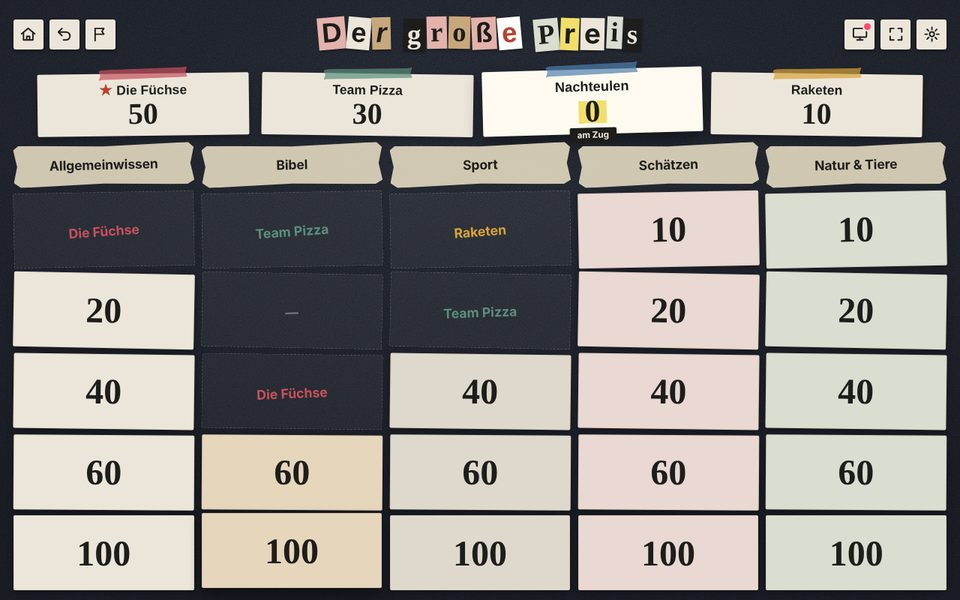
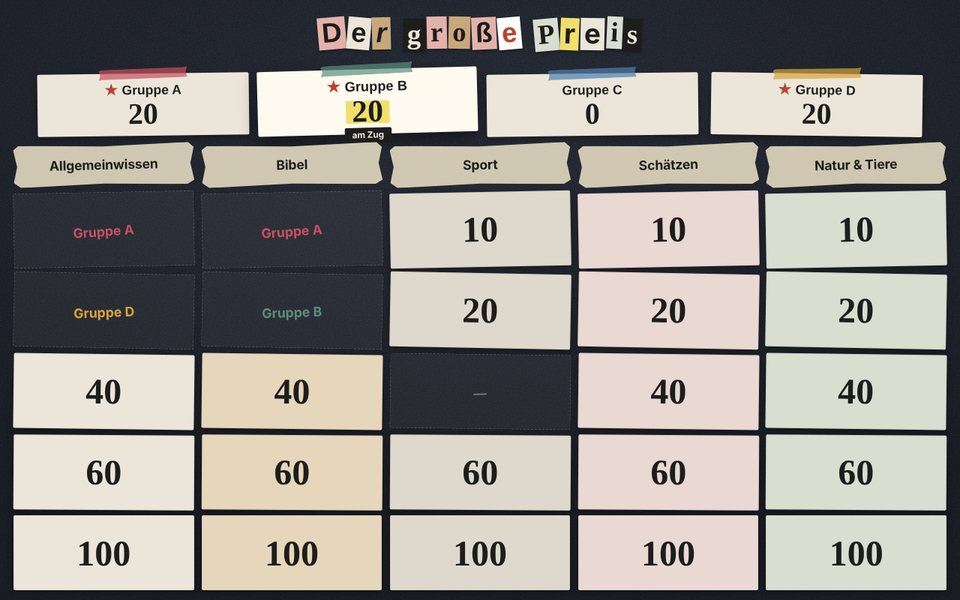
1.19.0: Startseite mit Erklärung und neuen Screenshots, Beamer-Spiele nur am Laptop/PC
- Kurze Erklärung unter dem Titel mit Link zur Vision
- Neue Screenshots: Der große Preis, Eigenes Spiel, Countdown, Spielesammlung
- Auf Handy und Tablet zeigen Der große Preis, Eigenes Spiel und Countdown
  einen Hinweis statt zu starten (iPad wird über den Touchscreen erkannt)
- Tests für Startseite und Handy/Tablet ergänzt

Claude-Session: https://claude.ai/code/session_01GTEJCin37oCirmEE6Capjx

diff --git a/js/app.js b/js/app.js
@@ -107,6 +107,23 @@ function sfx(n){
 /* ---------- Toast & Dialog ---------- */
 let toastT;
 function toast(m){const t=$('#toast');t.textContent=m;t.classList.add('show');clearTimeout(toastT);toastT=setTimeout(()=>t.classList.remove('show'),2600);}
+/* Hinweis nur mit OK-Knopf */
+function notice(msg){ask(msg,'OK',()=>{});$('#dNo').style.display='none';}
+
+/* Beamer-Spiele gibt es vorerst nur am Laptop/PC. Handy und Tablet bekommen sie mit der App.
+   iPads melden sich in Safari als Mac, deshalb zählt zusätzlich der Touchscreen. */
+function isHandyOderTablet(){
+  try{
+    const ua=navigator.userAgent||'';
+    if(navigator.userAgentData&&navigator.userAgentData.mobile)return true;
+    if(/iPhone|iPad|iPod|Android|Mobile|Silk|Kindle/i.test(ua))return true;
+    if(/Macintosh/.test(ua)&&navigator.maxTouchPoints>1)return true;
+    return matchMedia('(pointer:coarse)').matches&&!matchMedia('(any-pointer:fine)').matches;
+  }catch(e){return false;}
+}
+function nurAmPC(start){
+  return ()=>{if(isHandyOderTablet()){notice('Diese Funktion ist aktuell nur auf einem Laptop oder PC verfügbar.');return;}start();};
+}
 function ask(msg,yesLabel,onYes,opt){
   $('#dMsg').textContent=msg;$('#dYes').textContent=yesLabel||'OK';$('#dialog').classList.add('show');
   const inp=$('#dInput'),withInput=!!(opt&&opt.input);
@@ -115,7 +132,7 @@ function ask(msg,yesLabel,onYes,opt){
   const yes=()=>{const v=inp.value.trim();if(withInput&&!v){inp.focus();return;}$('#dialog').classList.remove('show');onYes(v);};
   $('#dYes').onclick=yes;
   inp.onkeydown=e=>{if(e.key==='Enter')yes();};
-  $('#dNo').onclick=()=>$('#dialog').classList.remove('show');
+  $('#dNo').style.display='';$('#dNo').onclick=()=>$('#dialog').classList.remove('show');
 }
 
 /* ---------- Spielbrett ---------- */
@@ -910,8 +927,9 @@ $('#btnEditBoard').onclick=()=>openSettings();
 $('#btnBackup').onclick=()=>backupNow();
 $('#btnRestore').onclick=()=>$('#tplFile').click();
 $('#gcColl').onclick=()=>{if(gamesState==='fehler')loadGames();showScreen('coll');};
-$('#gcPreis').onclick=()=>showScreen('gmenu');
+$('#gcPreis').onclick=nurAmPC(()=>showScreen('gmenu'));
 $('#btnGmBack').onclick=()=>showScreen('home');
+$('#lnkVision').onclick=e=>{e.preventDefault();try{$('#vision').scrollIntoView({behavior:matchMedia('(prefers-reduced-motion:reduce)').matches?'auto':'smooth'});}catch(err){$('#vision').scrollIntoView();}};
 $('#btnGuide').onclick=()=>{try{$('#info').scrollIntoView({behavior:matchMedia('(prefers-reduced-motion:reduce)').matches?'auto':'smooth'});}catch(e){$('#info').scrollIntoView();}};
 function finishGame(){
   if(!S.teams.length){toast('Es gibt noch keine Gruppen.');return;}
@@ -1193,7 +1211,7 @@ $('#tmStart').onclick=tmStart;
 $('#tmPause').onclick=tmPauseToggle;
 $('#tmReset').onclick=tmReset;
 $('#tmViewer').onclick=openViewer;
-$('#gcTimer').onclick=()=>showScreen('timer');
+$('#gcTimer').onclick=nurAmPC(()=>showScreen('timer'));
 $('#btnTimerBack').onclick=()=>{if(TM.phase==='running'||TM.phase==='paused'){ask('Der Countdown läuft noch. Trotzdem zurück? Der Countdown wird dabei beendet.','Zurück',()=>{tmReset();showScreen('home');});}else{tmReset();showScreen('home');}};
 if(!VIEW)tmRender();
 
@@ -1328,7 +1346,7 @@ function renderOwnList(){
   tip.textContent='Tipp: Exportiere ein fertiges Spiel als Datei. So hast du eine Sicherung und kannst es anderen schicken.';
   list.appendChild(tip);
 }
-$('#gcOwn').onclick=()=>showScreen('own');
+$('#gcOwn').onclick=nurAmPC(()=>showScreen('own'));
 $('#btnOwnBack').onclick=()=>showScreen('home');
 
 /* ---------- Einrichten ---------- */

diff --git a/index.html b/index.html
@@ -63,6 +63,7 @@
 <!-- ================= STARTMENÜ ================= -->
 <div class="screen" id="home">
   <h1 class="brand" id="homeBrand" aria-label="Manna"><img class="brand-mark" src="img/manna-mark.svg" alt=""><span class="brand-word" aria-hidden="true">anna</span></h1>
+  <p class="home-intro" id="homeIntro">Manna macht einen Spieleabend in der Jugendarbeit leicht: eine Quiz-Gameshow und eigene Spielrunden für den Beamer, ein großer Countdown und eine Sammlung erprobter Gruppenspiele. Ohne Konto, ohne Vorbereitung, auch offline. <a href="#visionTitle" id="lnkVision">Warum es Manna gibt</a></p>
   <div class="gamegrid">
     <button class="gcard" id="gcPreis">
       <span class="wbar">Der große Preis</span>
@@ -84,11 +85,11 @@
   <button class="guide-link" id="btnGuide">Mehr erfahren ↓</button>
 
   <div class="info" id="info">
-    <div class="collage" role="group" aria-label="Screenshots aus dem Spiel">
-      <figure class="shot"><img src="img/shot-brett.jpg" alt="Spielbrett mit fünf Kategorien, Punktefeldern und dem Punktestand der Gruppen" width="960" height="600" loading="lazy"></figure>
-      <figure class="shot"><img src="img/shot-frage.jpg" alt="Aufgelöste Multiple-Choice-Frage, die richtige Antwort ist grün markiert" width="960" height="600" loading="lazy"></figure>
-      <figure class="shot"><img src="img/shot-action.jpg" alt="ACTION-Animation aus ausgeschnittenen Buchstaben" width="960" height="600" loading="lazy"></figure>
-      <figure class="shot"><img src="img/shot-sieger.jpg" alt="Siegerehrung mit Treppchen aus Pappe und Konfetti" width="960" height="600" loading="lazy"></figure>
+    <div class="collage" role="group" aria-label="Screenshots aus Manna">
+      <figure class="shot"><img src="img/shot-brett.jpg" alt="Der große Preis: Spielbrett mit fünf Kategorien und dem Punktestand der Gruppen" width="960" height="600" loading="lazy"></figure>
+      <figure class="shot"><img src="img/shot-eigenes.jpg" alt="Eigenes Spiel: Titel der nächsten Runde aus ausgeschnittenen Buchstaben, darüber der Punktestand" width="960" height="600" loading="lazy"></figure>
+      <figure class="shot"><img src="img/shot-countdown.jpg" alt="Countdown: große Restzeit auf einem Papierzettel" width="960" height="600" loading="lazy"></figure>
+      <figure class="shot"><img src="img/shot-sammlung.jpg" alt="Spielesammlung: Nachts in Palermo mit Gruppengröße, Alter, Material und Rollen" width="960" height="600" loading="lazy"></figure>
     </div>
 
     <section class="hblock" aria-labelledby="needTitle">
@@ -122,7 +123,7 @@
       </div>
     </section>
 
-    <section class="hblock" aria-labelledby="visionTitle">
+    <section class="hblock" id="vision" aria-labelledby="visionTitle">
       <h2 id="visionTitle">Unsere Vision</h2>
       <div class="note vision">
         <p>Ehrenamtliche in der Jugendarbeit haben wenig Zeit und selten viel Technik. Deshalb soll ein guter Spieleabend so einfach werden wie möglich: das Spiel am Handy bedienen, schnell mit dem Beamer verbinden und auch spontan auf gutes Material zurückgreifen können.</p>

diff --git a/css/app.css b/css/app.css
@@ -941,7 +941,10 @@ body.viewer #ownPlay{padding-bottom:3vh}
 .brand{display:inline-flex;align-items:flex-end;gap:.04em;margin:3vh 0 1vh;font-size:clamp(3rem,10vh,6rem);line-height:1;color:#f1ede4}
 .brand-mark{width:1.18em;height:1.18em;display:block;margin-bottom:-.06em}
 .brand-word{font-family:var(--strong);font-weight:700;letter-spacing:-.02em;padding-bottom:.02em;text-shadow:0 3px 8px #0005}
-#home .brand{margin-bottom:7vh}
+#home .brand{margin-bottom:3vh}
+.home-intro{max-width:62ch;margin:0 auto 6vh;text-align:center;font-family:var(--serif);font-size:1.1rem;line-height:1.6;color:#d8d2c4}
+.home-intro a{color:#f1ede4;font-style:italic;text-decoration:underline;text-underline-offset:4px;white-space:nowrap}
+.home-intro a:hover{color:#fff}
 #vSplash .vs-brand{display:none;font-size:clamp(4rem,20vh,12rem);margin:0}
 #vSplash.brand-mode .vs-brand{display:inline-flex}
 #vSplash.brand-mode .marquee{display:none}

diff --git a/js/data.js b/js/data.js
@@ -3,8 +3,13 @@
    Neue Vorlagen oder Changelog-Einträge nur hier eintragen. */
 
 /* ---------- Version & Changelog ---------- */
-const APP_VERSION='1.18.0';
+const APP_VERSION='1.19.0';
 const CHANGELOG=[
+  {v:'1.19.0',d:'24.11.2026',items:[
+    'Neu auf der Startseite: eine kurze Erklärung, was Manna kann, mit Link zur Vision',
+    'Neue Screenshots auf der Startseite: Der große Preis, Eigenes Spiel, Countdown und Spielesammlung',
+    'Der große Preis, Eigenes Spiel und Countdown gibt es vorerst nur am Laptop oder PC. Auf Handy und Tablet kommt ein Hinweis, die Spielesammlung bleibt dort nutzbar'
+  ]},
   {v:'1.18.0',d:'24.11.2026',items:[
     'Spielesammlung verschlankt: „Spiel erstellen“ und „Spiel einsenden“ gibt es nicht mehr',
     'Neue Spiele erscheinen in der Spielesammlung jetzt ohne App-Update',

diff --git a/sw.js b/sw.js
@@ -2,7 +2,7 @@
    Macht die App offline-fähig und lädt Updates automatisch.
    WICHTIG: Bei jedem Update VERSION hochzählen (gleiche Nummer wie APP_VERSION in js/data.js).
    Die Spiele (spiele/alle.json) brauchen kein Update: Sie werden immer zuerst frisch geladen. */
-const VERSION = '1.18.0';
+const VERSION = '1.19.0';
 const CACHE = 'grosser-preis-' + VERSION;
 const FONT_CACHE = 'grosser-preis-fonts';
 const GAMES_CACHE = 'manna-spiele';
@@ -15,9 +15,9 @@ const FILES = [
   './js/data.js',
   './js/app.js',
   './img/shot-brett.jpg',
-  './img/shot-frage.jpg',
-  './img/shot-action.jpg',
-  './img/shot-sieger.jpg',
+  './img/shot-eigenes.jpg',
+  './img/shot-countdown.jpg',
+  './img/shot-sammlung.jpg',
   './img/manna-mark.svg',
   './manifest.webmanifest',
   './icon-192.png',

diff --git a/tests/run_tests.py b/tests/run_tests.py
@@ -62,7 +62,7 @@ def static_checks():
     check('Version in data.js und sw.js gleich', v1 == v2, f'{v1} / {v2}')
     md = open(os.path.join(ROOT, 'CHANGELOG.md'), encoding='utf-8').read()
     check('CHANGELOG.md enthält aktuelle Version', f'## {v1}' in md)
-    for f in ['css/app.css', 'js/spielformat.js', 'js/data.js', 'js/app.js', 'img/shot-brett.jpg', 'img/shot-frage.jpg', 'img/shot-action.jpg', 'img/shot-sieger.jpg']:
+    for f in ['css/app.css', 'js/spielformat.js', 'js/data.js', 'js/app.js', 'img/shot-brett.jpg', 'img/shot-eigenes.jpg', 'img/shot-countdown.jpg', 'img/shot-sammlung.jpg']:
         check(f'Service Worker cached {f}', f"'./{f}'" in sw)
         check(f'Datei vorhanden: {f}', os.path.exists(os.path.join(ROOT, f)))
 
@@ -125,6 +125,12 @@ def browser_checks(p):
     check('Screenshots laden', all(loaded), loaded)
     heads = m.locator('#home .hblock h2').all_inner_texts()
     check('Bereiche auf der Startseite', heads == ['Genau das, was du brauchst!', "So funktioniert's", 'Unsere Vision'], heads)
+    intro = m.inner_text('#homeIntro') if m.locator('#homeIntro').count() else ''
+    check('Kurze Erklärung unter dem Titel', m.locator('#homeBrand + #homeIntro + .gamegrid').count() == 1 and 'Gruppenspiele' in intro, intro)
+    m.click('#lnkVision'); m.wait_for_timeout(900)
+    check('Link springt zur Vision', m.evaluate("(()=>{const r=document.querySelector('#vision').getBoundingClientRect();return r.top<innerHeight&&r.bottom>0})()") and '#' not in m.url)
+    m.evaluate('scrollTo(0,0)')
+    check('Laptop/PC: Beamer-Spiele nicht gesperrt', not m.evaluate('isHandyOderTablet()'))
     m.click('#homeVer'); m.wait_for_timeout(200)
     check('Changelog öffnet', m.locator('#clDialog.show').count() == 1)
     check('Changelog ohne Datum', not re.search(r'\d{1,2}\.\d{1,2}\.\d{4}', m.inner_text('#clBody')))
@@ -519,6 +525,31 @@ def build_text(txt):
         open(os.path.join(t, slug + '.txt'), 'w', encoding='utf-8').write(txt)
         return build(t, os.path.join(t, 'alle.json'))
 
+def mobile_checks(p):
+    print('Handy und Tablet')
+    b = p.chromium.launch(**({'executable_path': CHROME} if CHROME else {}), args=['--no-sandbox'])
+    msg = 'Diese Funktion ist aktuell nur auf einem Laptop oder PC verfügbar.'
+    geraete = {
+        'iPhone': dict(p.devices['iPhone 13']),
+        'iPad (meldet sich als Mac)': dict(viewport={'width': 1024, 'height': 1366}, has_touch=True, is_mobile=False,
+            user_agent='Mozilla/5.0 (Macintosh; Intel Mac OS X 10_15_7) AppleWebKit/605.1.15 (KHTML, like Gecko) Version/17.0 Safari/605.1.15'),
+        'Android-Tablet': dict(viewport={'width': 1280, 'height': 800}, has_touch=True,
+            user_agent='Mozilla/5.0 (Linux; Android 14; SM-X710) AppleWebKit/537.36 (KHTML, like Gecko) Chrome/124.0 Safari/537.36'),
+    }
+    for name, opts in geraete.items():
+        opts.pop('default_browser_type', None)
+        ctx = b.new_context(**opts); m = ctx.new_page(); m.goto(URL); m.wait_for_timeout(400)
+        if m.locator('#clDialog.show').count(): m.click('#clX')
+        for card, screen in [('#gcPreis', '#gmenu'), ('#gcOwn', '#ownScreen'), ('#gcTimer', '#timerScreen')]:
+            m.click(card); m.wait_for_timeout(200)
+            ok = m.locator('#dialog.show').count() == 1 and m.inner_text('#dMsg') == msg and not m.locator('#dNo').is_visible()
+            check(f'{name}: {card} zeigt Hinweis statt Start', ok and m.locator('#home.show').count() == 1 and m.locator(screen + '.show').count() == 0)
+            m.click('#dYes'); m.wait_for_timeout(150)
+        m.click('#gcColl'); m.wait_for_timeout(300)
+        check(f'{name}: Spielesammlung bleibt nutzbar', m.locator('#collScreen.show').count() == 1)
+        ctx.close()
+    b.close()
+
 if __name__ == '__main__':
     httpd = serve()
     try:
@@ -526,6 +557,7 @@ if __name__ == '__main__':
         spiele_checks()
         with sync_playwright() as p:
             browser_checks(p)
+            mobile_checks(p)
             editor_checks(p)
     except Exception:
         traceback.print_exc(); results.append(('Testlauf ohne Absturz', False, ''))

diff --git a/ROADMAP.md b/ROADMAP.md
@@ -58,7 +58,8 @@ Leitgedanke (siehe „Unsere Vision“ auf der Startseite): Ehrenamtliche sollen
 ### Erstes Standbein – Web-App unter manna-games.de (als Nächstes)
 - Domain manna-games.de mit GitHub Pages verbinden (vorher eigene Daten unter der alten Adresse exportieren)
 - Am Laptop und PC voll nutzbar, mit allen Beamer-Funktionen
-- **Wunsch:** Auf Handy und Tablet startet kein Beamer-Spiel (Der große Preis, Eigenes Spiel, Countdown). Stattdessen kommt die Meldung „Diese Funktion ist aktuell nur auf einem Laptop oder PC verfügbar.“, ohne dass etwas startet. Tablets über den Touchscreen erkennen (iPad meldet sich im Browser als Mac)
+- ✔ Auf Handy und Tablet startet kein Beamer-Spiel (Der große Preis, Eigenes Spiel, Countdown). Stattdessen kommt die Meldung „Diese Funktion ist aktuell nur auf einem Laptop oder PC verfügbar.“, ohne dass etwas startet. Tablets über den Touchscreen erkennen (iPad meldet sich im Browser als Mac) (Version 1.19.0)
+- ✔ Startseite: kurze Erklärung mit Link zur Vision, neue Screenshots (Version 1.19.0)
 - Alles ohne Beamer (Spielesammlung, Vorlagen, Vorbereiten) bleibt auf Handy und Tablet nutzbar
 - Vor dem Weitergeben: Arbeitgeber klären, Impressum und Datenschutzhinweis
 - Code bleibt öffentlich (kostenloser App-Bau über GitHub). Bezahlinhalte später getrennt aufbewahren

diff --git a/CHANGELOG.md b/CHANGELOG.md
@@ -1,5 +1,10 @@
 # Changelog – Manna
 
+## 1.19.0 – 24.11.2026
+- Neu auf der Startseite: eine kurze Erklärung, was Manna kann, mit Link zur Vision
+- Neue Screenshots auf der Startseite: Der große Preis, Eigenes Spiel, Countdown und Spielesammlung
+- Der große Preis, Eigenes Spiel und Countdown gibt es vorerst nur am Laptop oder PC. Auf Handy und Tablet kommt ein Hinweis, die Spielesammlung bleibt dort nutzbar
+
 ## 1.18.0 – 24.11.2026
 - Spielesammlung verschlankt: „Spiel erstellen“ und „Spiel einsenden“ gibt es nicht mehr
 - Neue Spiele erscheinen in der Spielesammlung jetzt ohne App-Update
